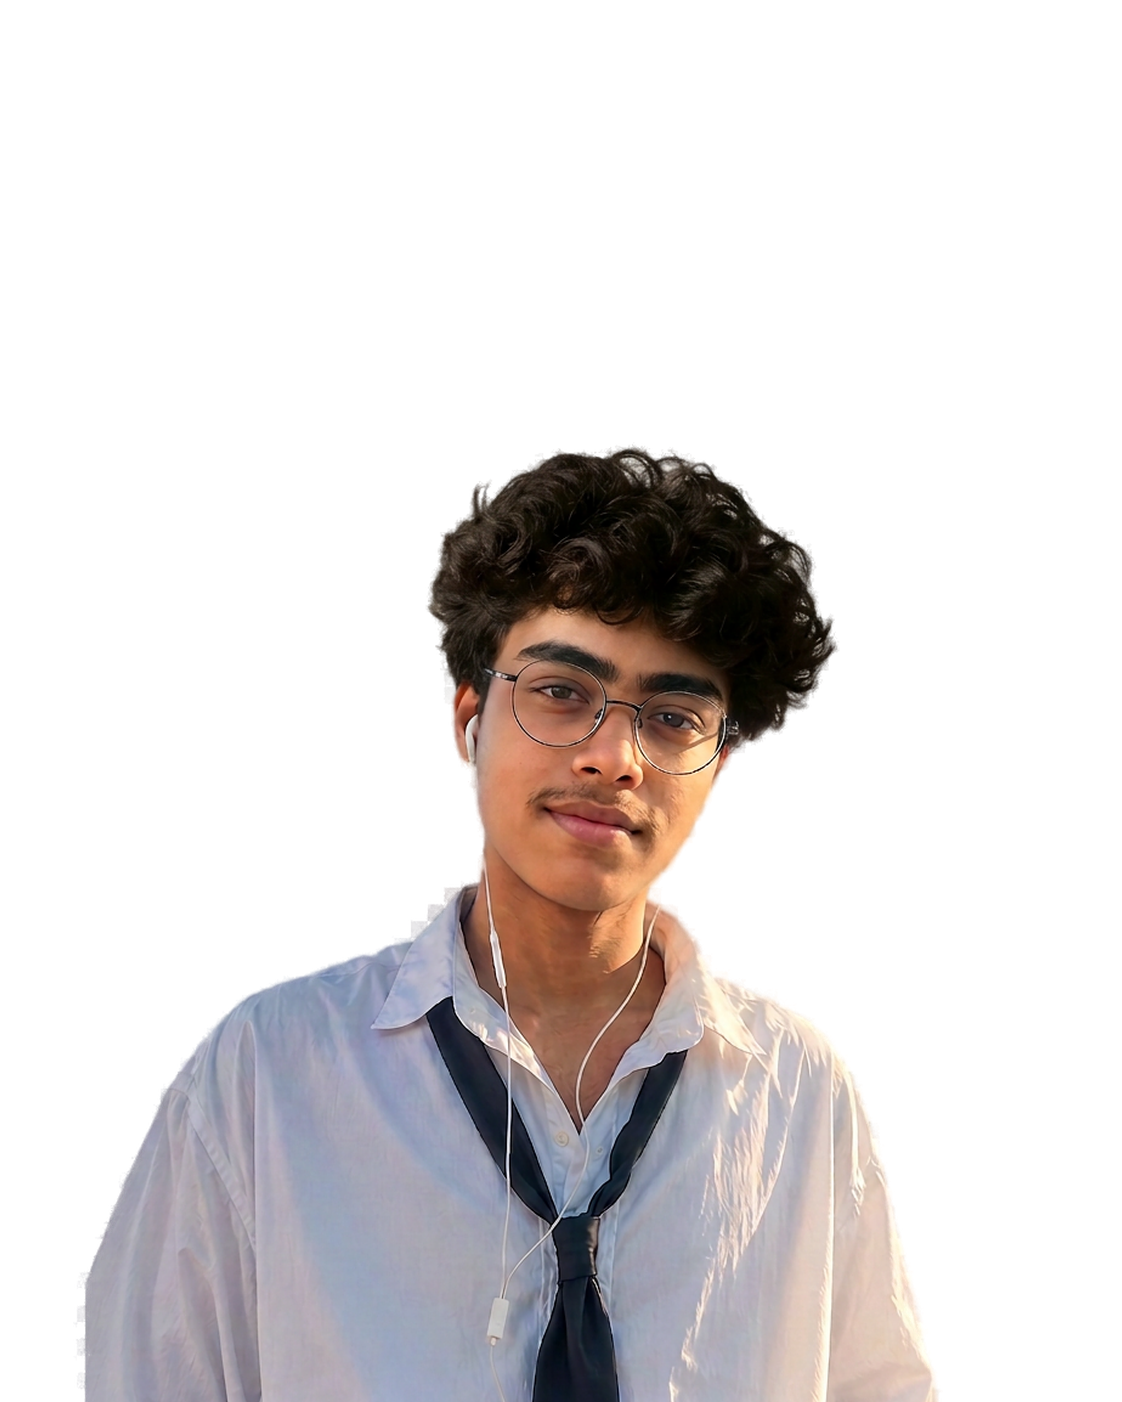
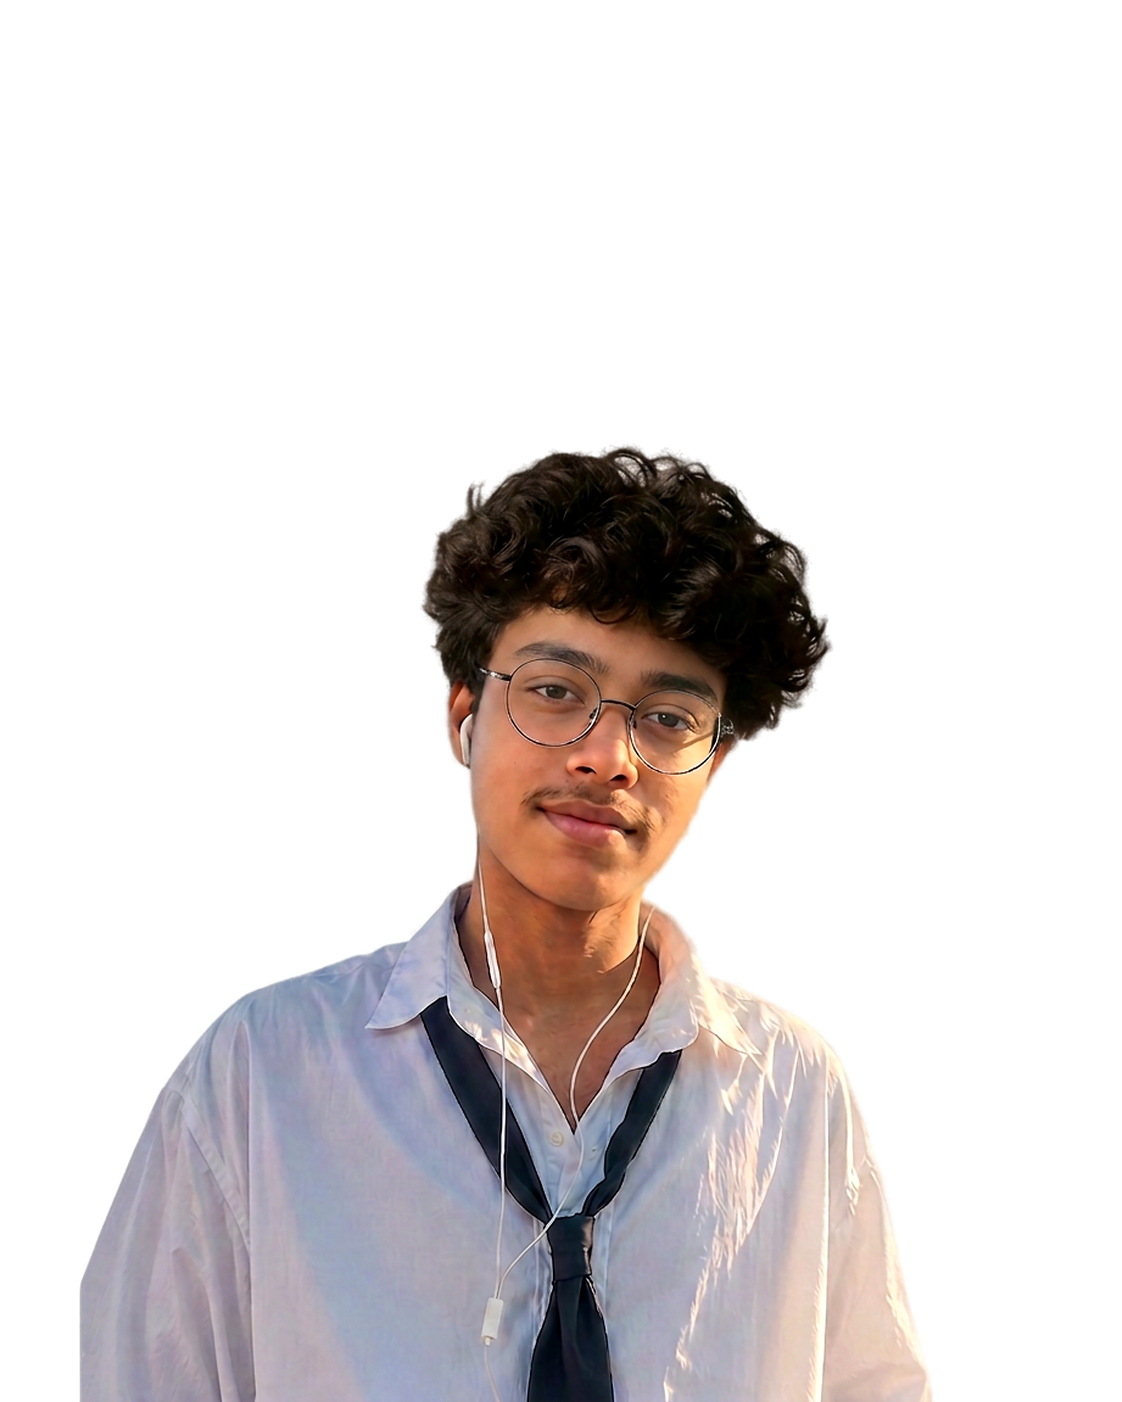
Refine hero eyebrows from raw photo and alpha matte

diff --git a/HERO_FINAL_UPDATE_REPORT.md b/HERO_FINAL_UPDATE_REPORT.md
@@ -45,3 +45,10 @@ Updated the hero portrait using the user-selected base image with raw-photo matc
 - Rebuilt on a 1122x1402 reference-sized transparent canvas with subject bbox aligned close to the reference asset.
 - Preserved selected pose, outfit, glasses, earphones, and personality.
 - Verified corners are fully transparent and no checkerboard/background is baked into the PNG.
+
+## Raw eyebrow precision pass
+- Re-edited hero with the uploaded raw photo as the eyebrow/skin-tone guide.
+- Eyebrows adjusted toward the raw photo's natural medium thickness, spacing, and density.
+- Re-cut using high-quality alpha matting and rebuilt on the reference 1122x1402 transparent canvas.
+- Preserved selected pose, clothing, glasses, earphones, and overall personality.
+- Verified true alpha transparency and no checkerboard/background baked into PNG.
